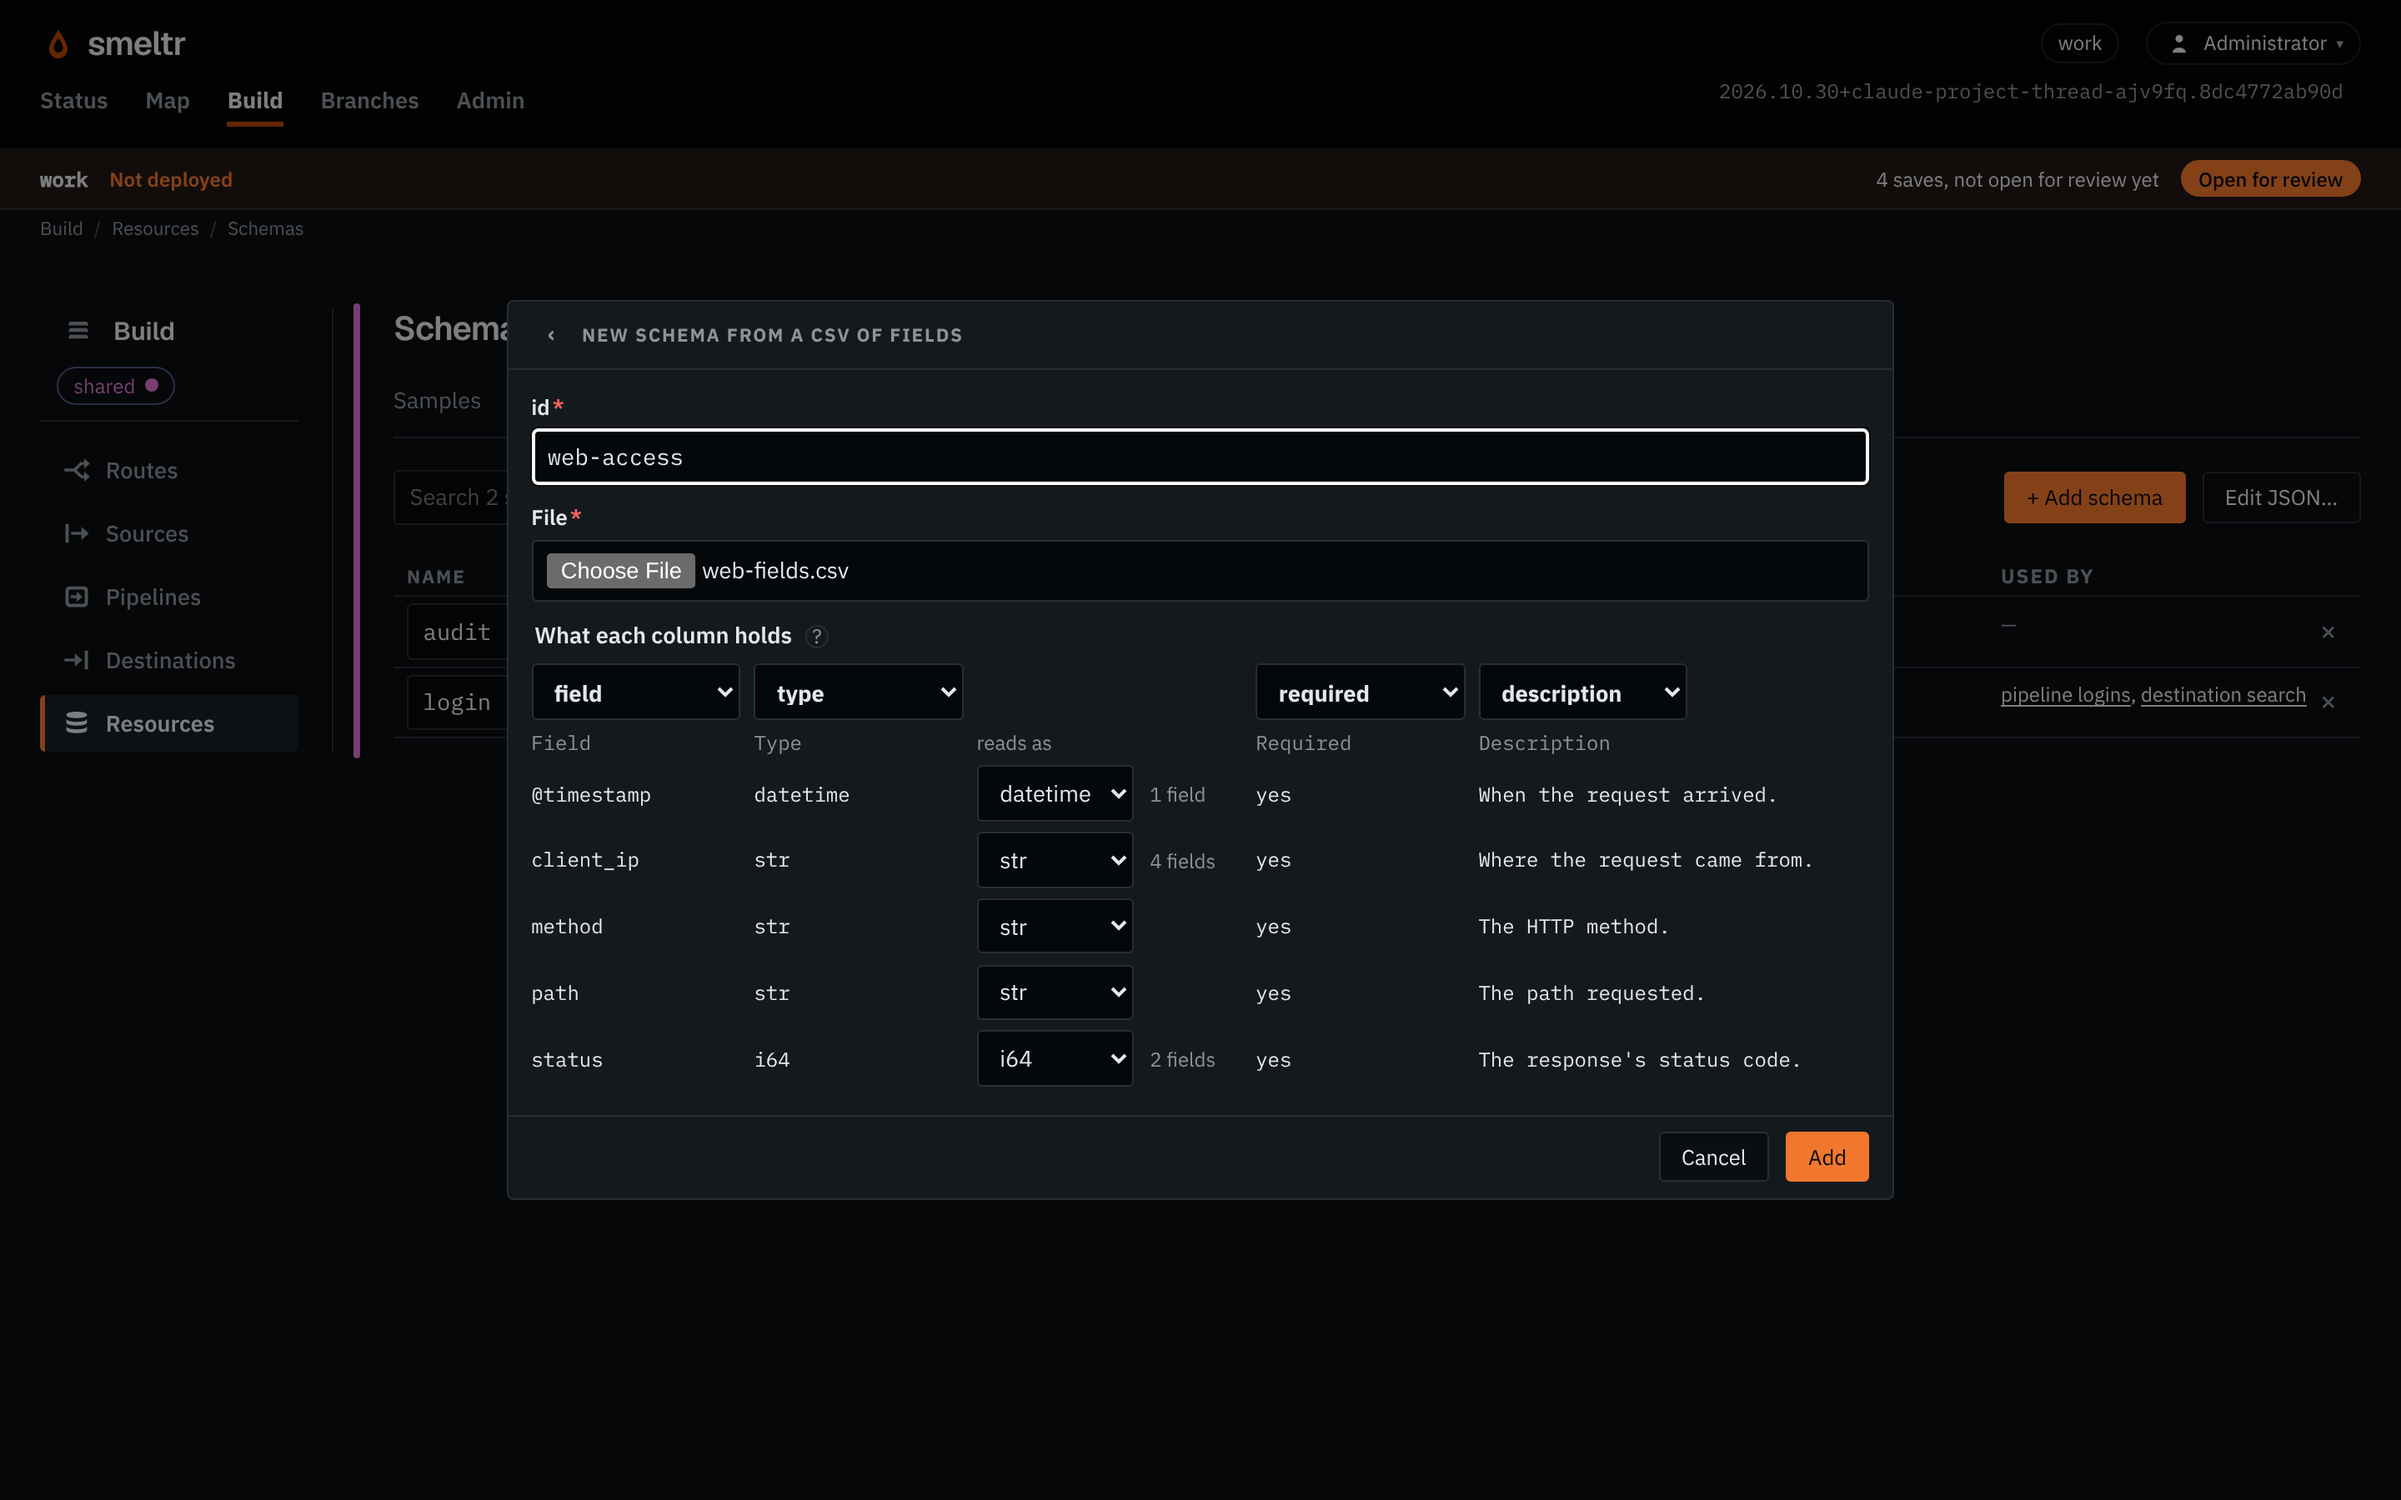
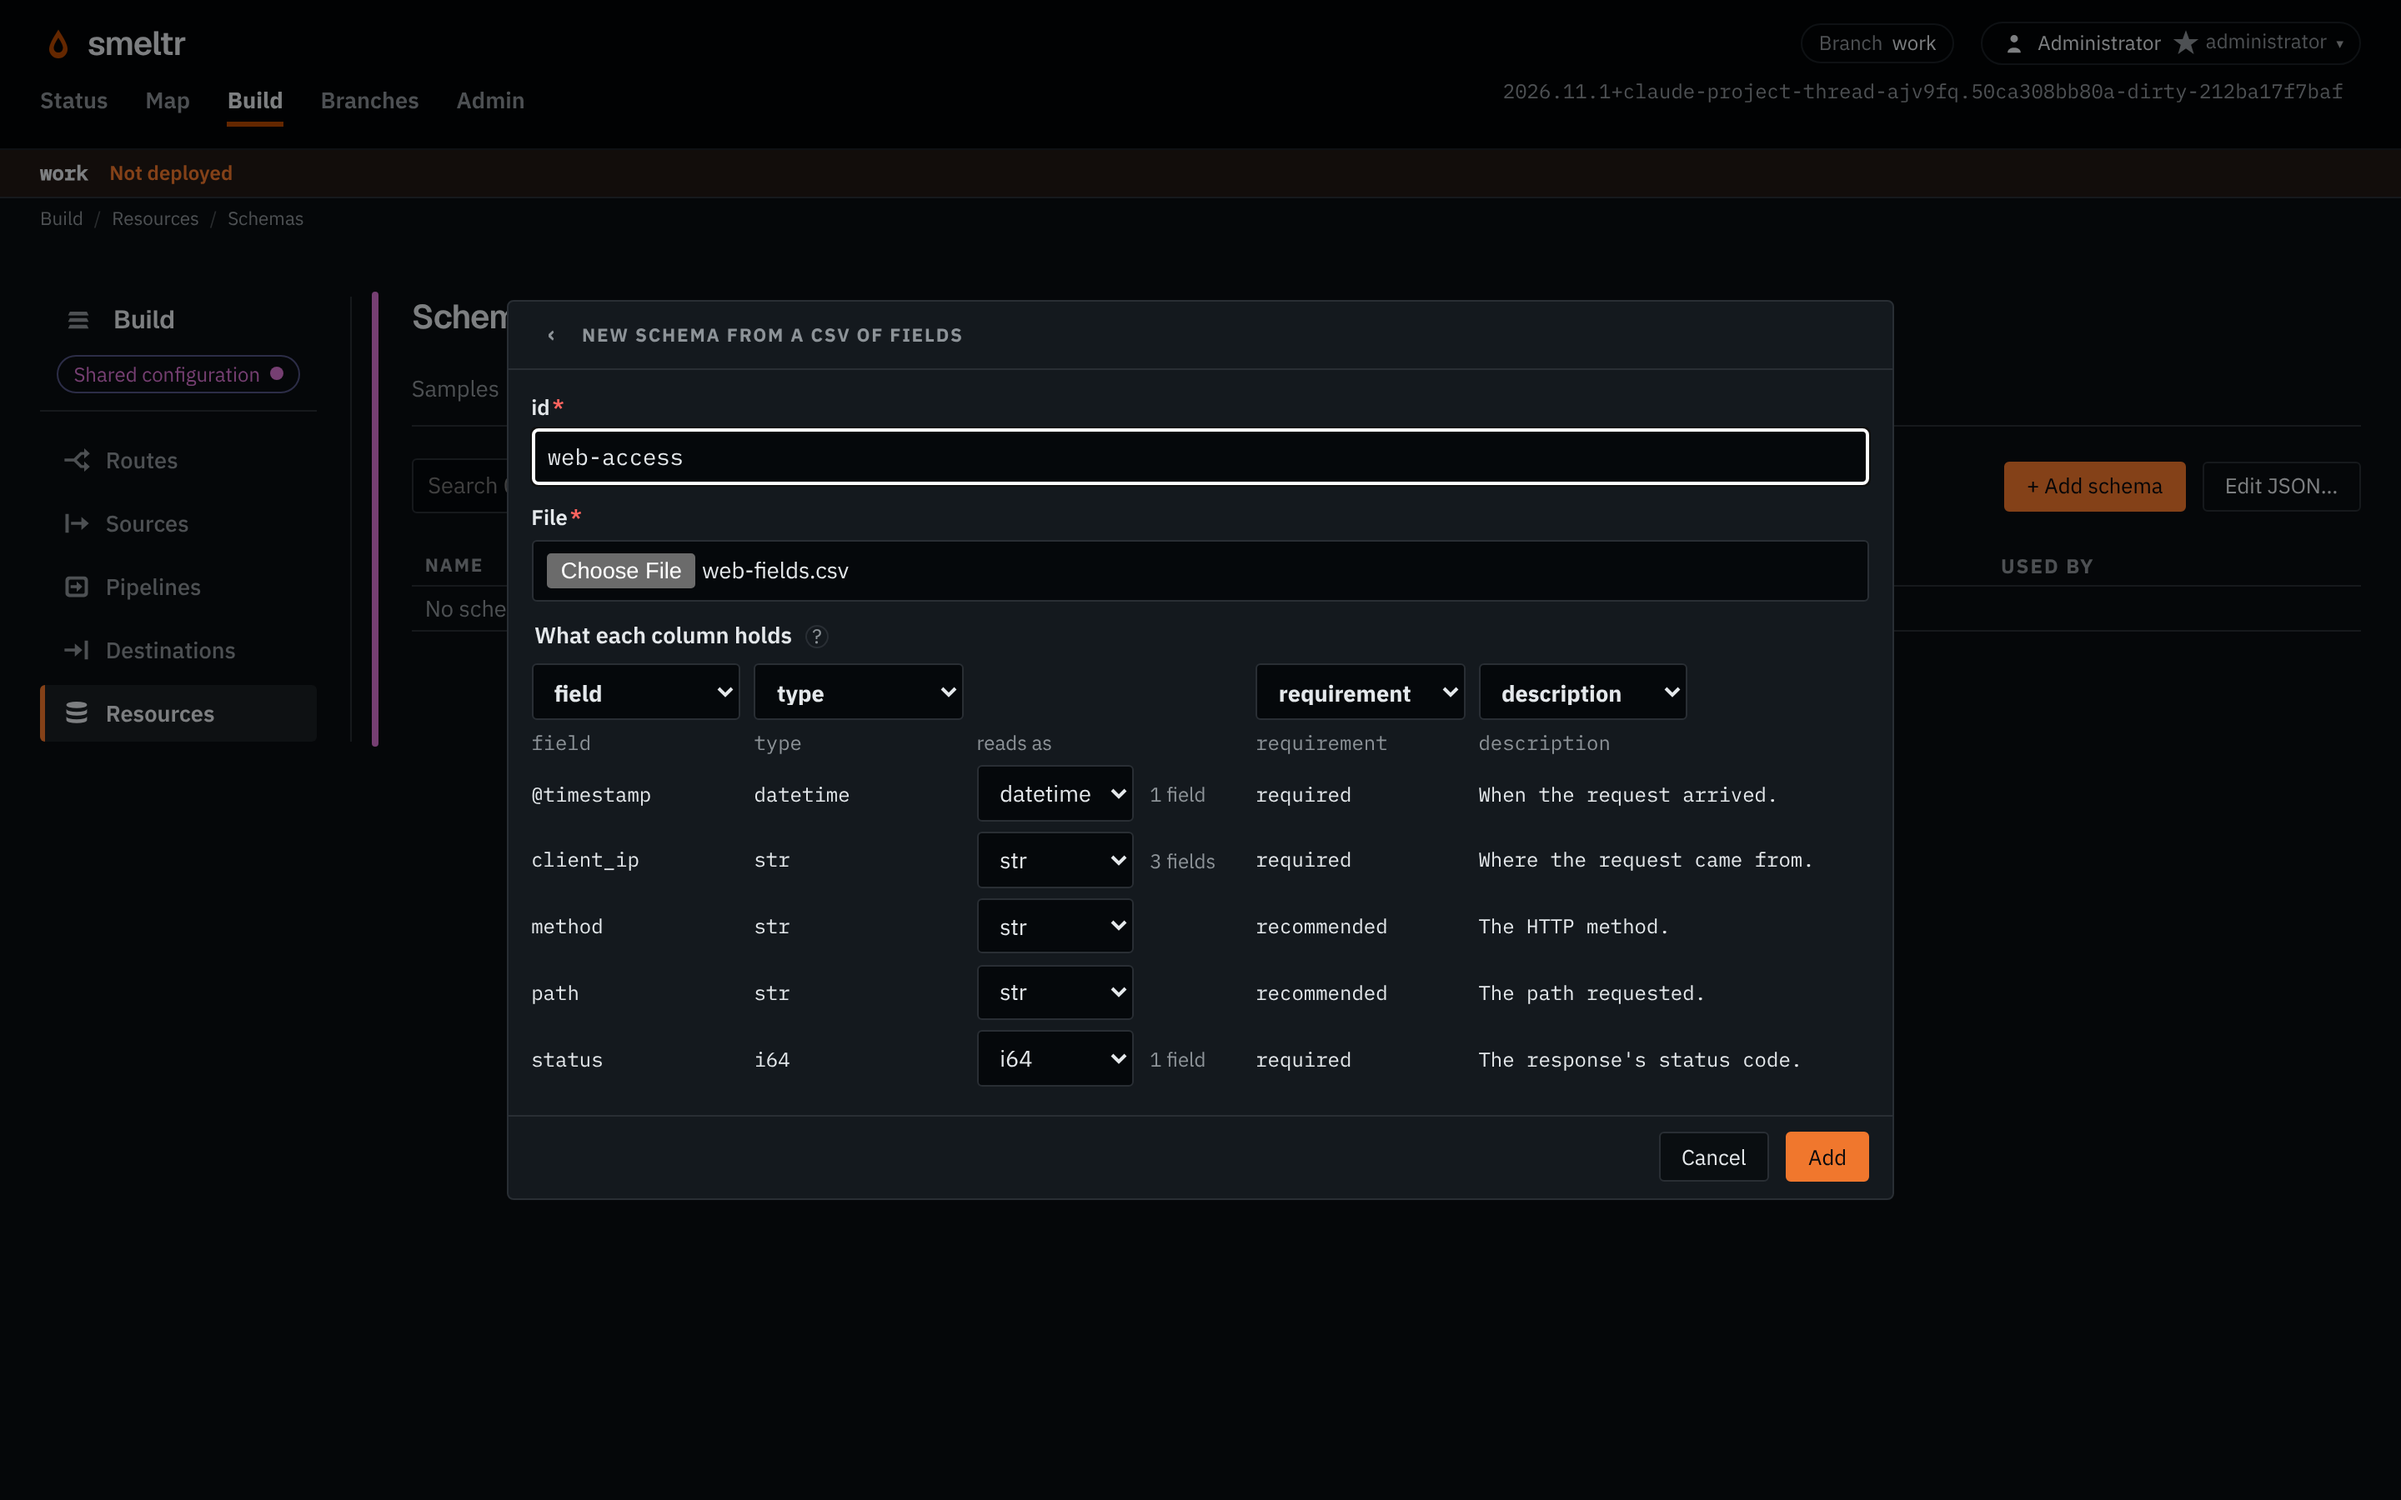
Docs: schemas page wording from review; CSV and review shots retaken
Claude-Session: https://claude.ai/code/session_01F9ZxuRT7hpN9sKNZDuxaQD

diff --git a/website/src/routes/docs/schemas/+page.svelte b/website/src/routes/docs/schemas/+page.svelte
@@ -110,10 +110,18 @@
   </p>
   <p>
     Under <strong>Requirements</strong>, choose whose rules the fields follow.
-    <strong>ECS</strong> requires @timestamp and ecs.version, and recommends ECS's core fields.
-    <strong>Elastic Security</strong> requires @timestamp, ecs.version, event.kind, event.category and
-    event.type. It recommends the other fields its field reference lists, such as host.name and source.ip.
-    Choose Elastic Security if the records feed Elastic Security.
+    <strong>ECS</strong> requires <code>@timestamp</code> and <code>ecs.version</code>, and
+    recommends
+    <a href="https://www.elastic.co/guide/en/ecs/current/ecs-guidelines.html#_ecs_field_levels"
+      >ECS's core fields</a
+    >. <strong>Elastic Security</strong> requires <code>@timestamp</code>, <code>ecs.version</code>,
+    <code>event.kind</code>, <code>event.category</code> and <code>event.type</code>. It recommends
+    the other fields its
+    <a href="https://www.elastic.co/guide/en/security/current/siem-field-reference.html"
+      >field reference</a
+    >
+    lists, such as <code>host.name</code> and <code>source.ip</code>. Choose Elastic Security if the
+    records feed Elastic Security.
   </p>
 
   <h2 id="ocsf">Read an OCSF class</h2>
@@ -152,8 +160,8 @@
   <ProductScreenshot
     source="schema-csv"
     height={1800}
-    crop={{ x: 600, y: 352, width: 1680, height: 1100 }}
-    alt="The New schema from a CSV of fields dialog: the columns for field, type, required and description, and how each type reads."
+    crop={{ x: 606, y: 352, width: 1668, height: 1100 }}
+    alt="The New schema from a CSV of fields dialog: the columns for field, type, requirement and description, and how each type reads."
     caption="A CSV of fields, with the column each part comes from and how each type reads."
   />
 
@@ -194,15 +202,15 @@
   </p>
   <p>
     A recommended field the records lack is not a finding. The editor tells you of it under the
-    steps, and the bar still says <strong>the rows fit</strong>. In review it comes after the
-    pipeline's findings.
+    steps, and the bar still says <strong>the rows fit</strong>. In review, that note comes after
+    the pipeline's findings.
   </p>
   <ProductScreenshot
     source="schema-review"
     height={1800}
-    crop={{ x: 446, y: 410, width: 980, height: 640 }}
-    alt="A change's Schemas tab with two findings for the logins pipeline."
-    caption="Two findings in review: fields Login requires, and a destination that accepts Audit."
+    crop={{ x: 446, y: 410, width: 980, height: 700 }}
+    alt="A change's Schemas tab with two findings for the logins pipeline, and a field Login recommends."
+    caption="Two findings in review: fields Login requires, and a destination that accepts Audit. After them, a field Login recommends."
   />
 
   <h2 id="export">Export an Elasticsearch mapping</h2>
